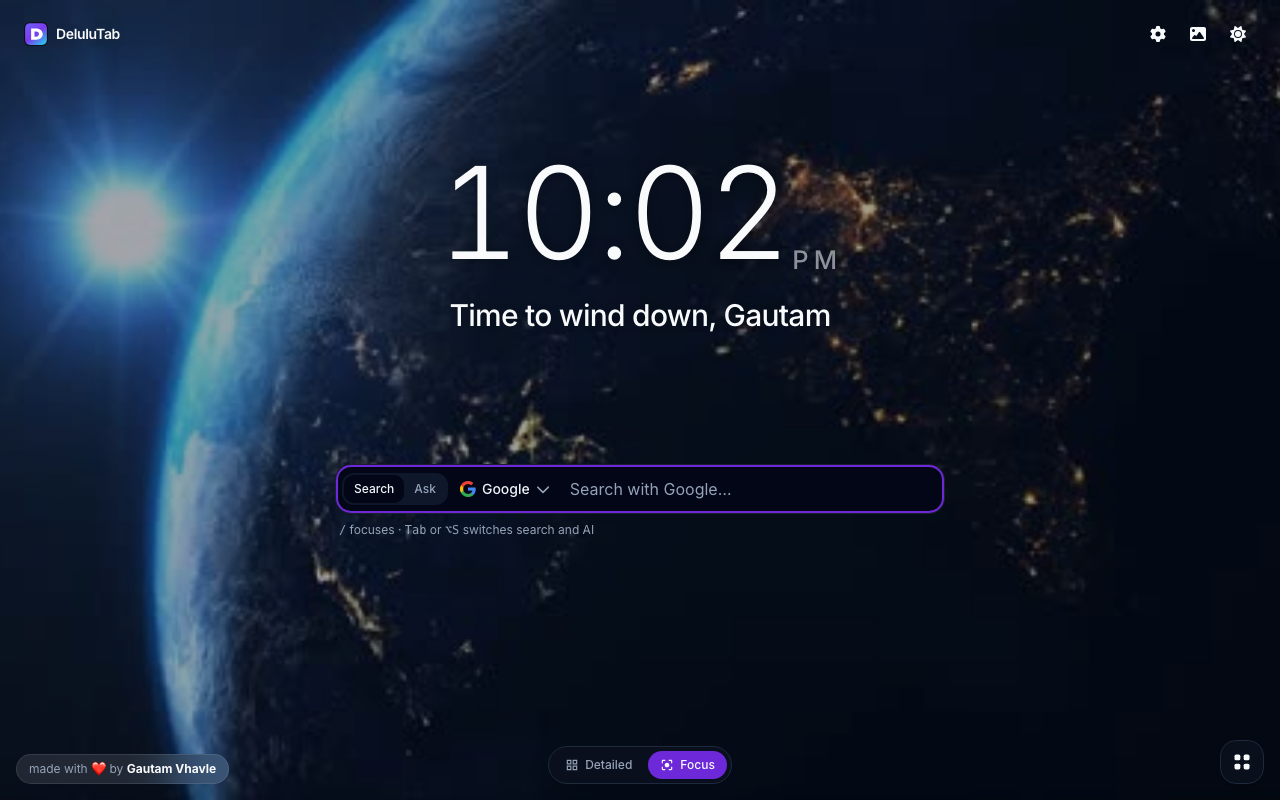
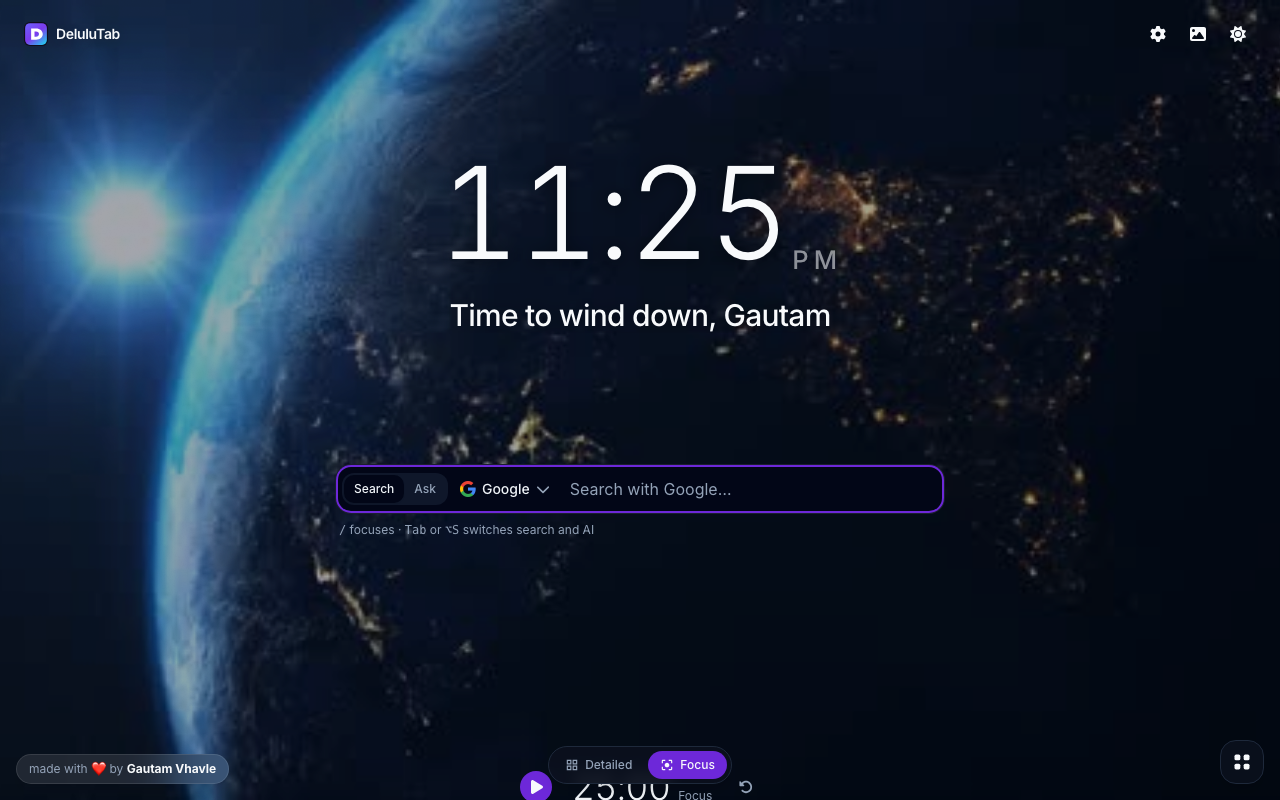
fix: show Focus first and a loaded Detailed view
The README pair was two similar dashboards. The first picture is Focus, the second is Detailed with weather, shortcuts, a quote and news. The live preview is https://delulutab-preview.vercel.app.

Changed region(s): [[0.5, 0.1875, 0.625, 0.3438], [0.4062, 0.1875, 0.4688, 0.3438], [0.4062, 0.9688, 0.5625, 1.0]]

diff --git a/RELEASING.md b/RELEASING.md
@@ -62,4 +62,4 @@ DeluluTab is not published to the Chrome Web Store. Attach `release/DeluluTab-vX
   - `host_permissions`: the news and quote feeds, which do not send CORS headers. Weather, GitHub and picture links are called only when you use those features. See [PRIVACY.md](PRIVACY.md).
 - **Privacy policy URL:** `https://github.com/GautamVhavle/DeluluTab/blob/main/PRIVACY.md`
 - **Data disclosure:** location (approximate, used for weather, not stored on a server), website content you enter (notes, prompts you send on to AI sites), and web history is **not** collected. Nothing is sold or used for ads.
-- **Preview images:** `npm run build && npm run store:assets` writes the Detailed, Compact and Focus screenshots, plus the widgets panel and the 440×280 tile, to `store/`. The greeting in those pictures is Gautam and the city is Hyderabad.
+- **Preview images:** `npm run store:assets -- --url http://localhost:5173/` writes Focus, then a loaded Detailed view, plus the widgets panel and the 440×280 tile, to `store/`. The greeting in those pictures is Gautam and the city is Hyderabad. Run it against the dev server so the news actually loads.

diff --git a/README.md b/README.md
@@ -20,15 +20,19 @@
 </p>
 
 <p align="center">
-  <img src="store/screenshot-1-detailed.png" alt="Detailed view. Night earth, the greeting is for Gautam, and the weather city is Hyderabad." width="820" />
+  <a href="https://delulutab-preview.vercel.app"><strong>Open the live preview</strong></a>
 </p>
 
 <p align="center">
-  <img src="store/screenshot-2-compact.png" alt="A tighter view of the same new tab, still greeting Gautam, still showing Hyderabad." width="820" />
+  <img src="store/screenshot-1-focus.png" alt="Focus view. Night earth, the greeting is for Gautam, and the layout switch says Focus." width="820" />
 </p>
 
 <p align="center">
-  <sub>Detailed, then a tighter view of the same page. Night earth behind both. The greeting is Gautam. The weather city is Hyderabad.</sub>
+  <img src="store/screenshot-2-detailed.png" alt="Detailed view, loaded. Night earth, Gautam, Hyderabad weather, shortcuts, a quote and the news." width="820" />
+</p>
+
+<p align="center">
+  <sub>Focus, then Detailed. Night earth behind both. The greeting is Gautam. The weather city is Hyderabad.</sub>
 </p>
 
 ---
